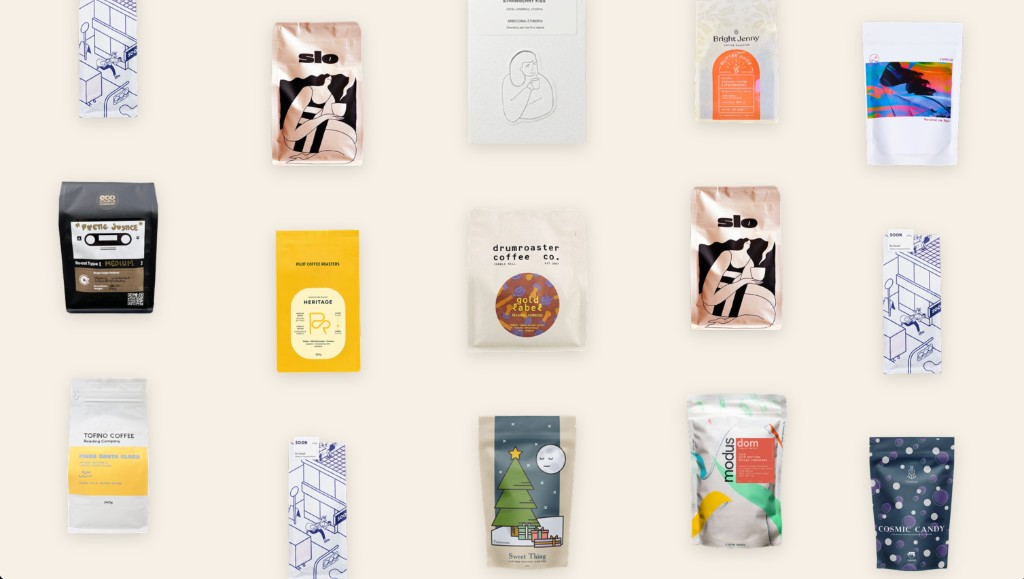
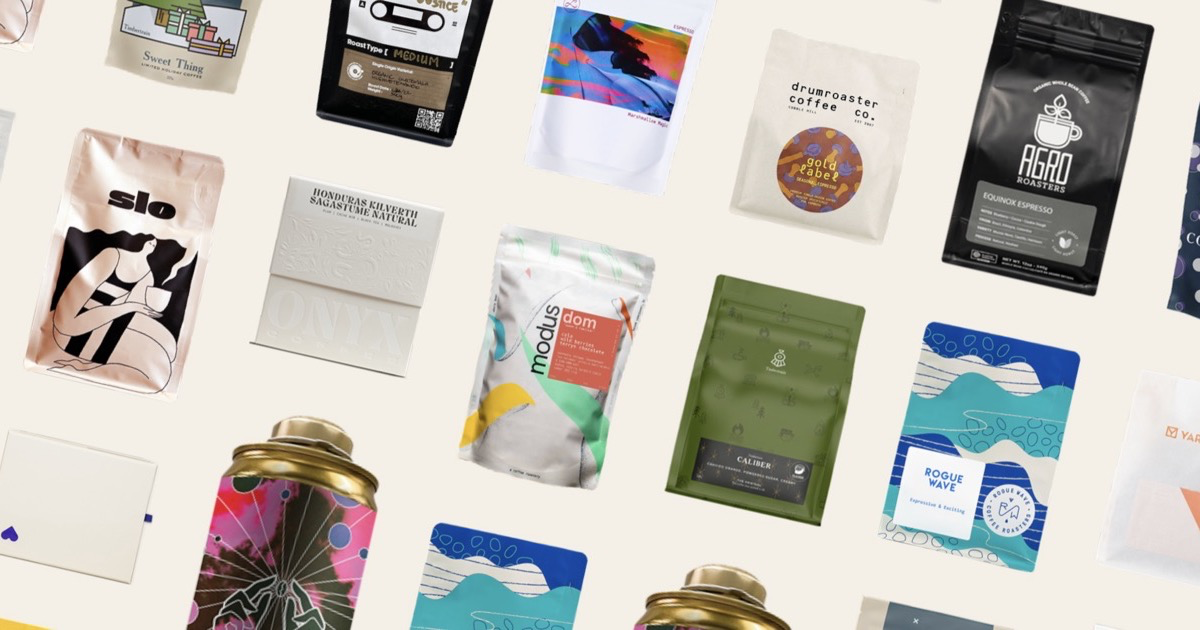
Update OG image and description for Brewist
New OG image showing coffee bag grid at 1200x630. Updated description
to "Add, share and discover coffee recipes". Used absolute URLs for
OG/Twitter image tags.

diff --git a/index.html b/index.html
@@ -9,13 +9,14 @@
   <!-- Open Graph / Facebook -->
   <meta property="og:type" content="website">
   <meta property="og:title" content="Brewist">
-  <meta property="og:description" content="Your personal canvas of coffee recipes">
-  <meta property="og:image" content="/og-image.png">
-  
+  <meta property="og:description" content="Add, share and discover coffee recipes">
+  <meta property="og:image" content="https://brewist.co/og-image.png">
+
   <!-- Twitter -->
   <meta name="twitter:card" content="summary_large_image">
   <meta name="twitter:title" content="Brewist">
-  <meta name="twitter:description" content="Your personal canvas of coffee recipes">
+  <meta name="twitter:description" content="Add, share and discover coffee recipes">
+  <meta name="twitter:image" content="https://brewist.co/og-image.png">
   <meta name="twitter:image" content="/og-image.png">
   
   <!-- Preload critical resources -->
